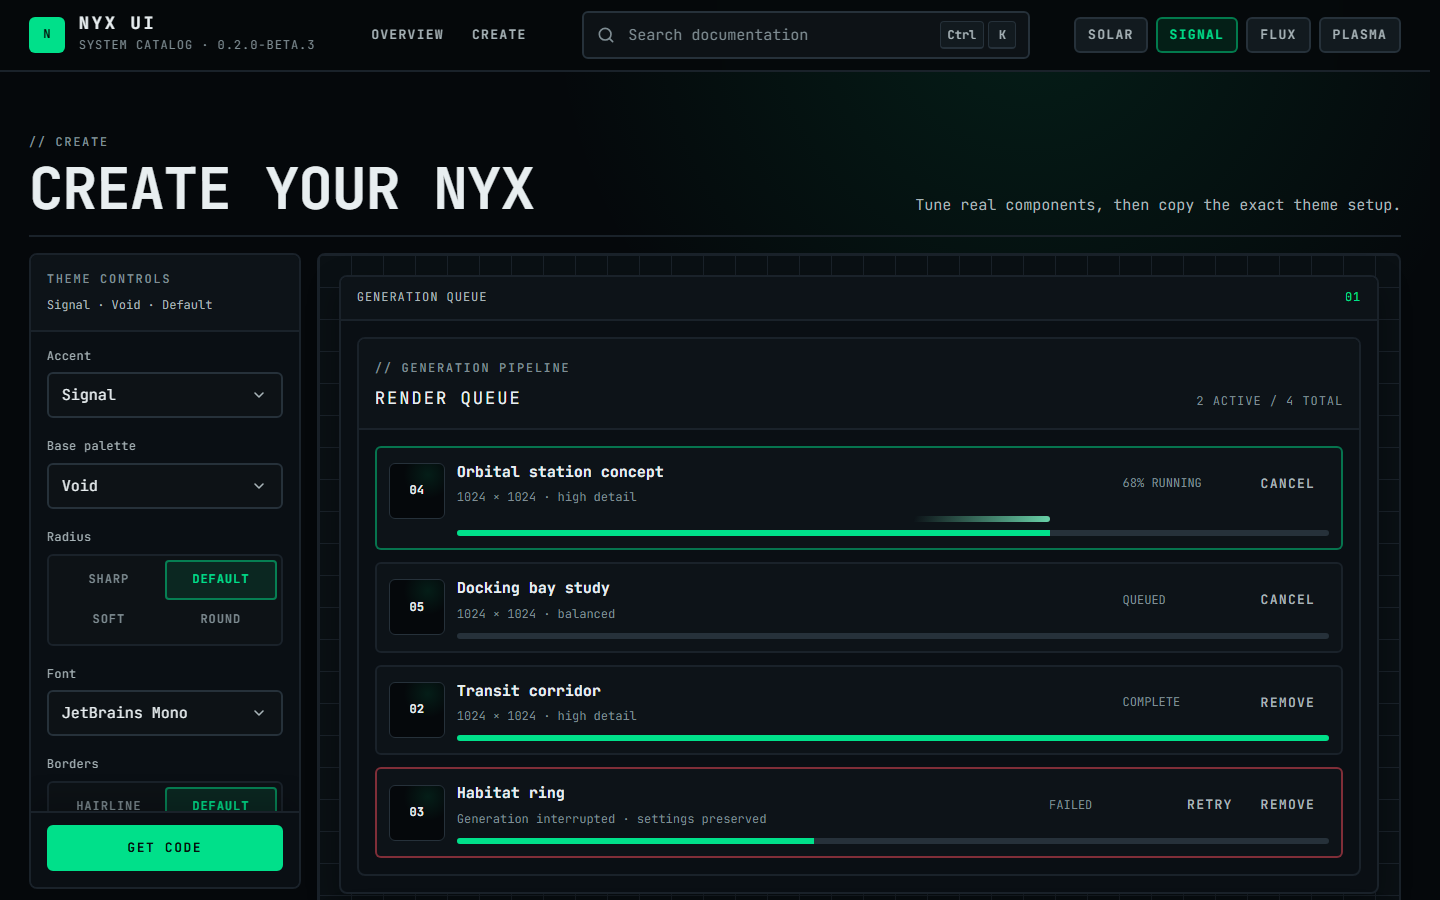
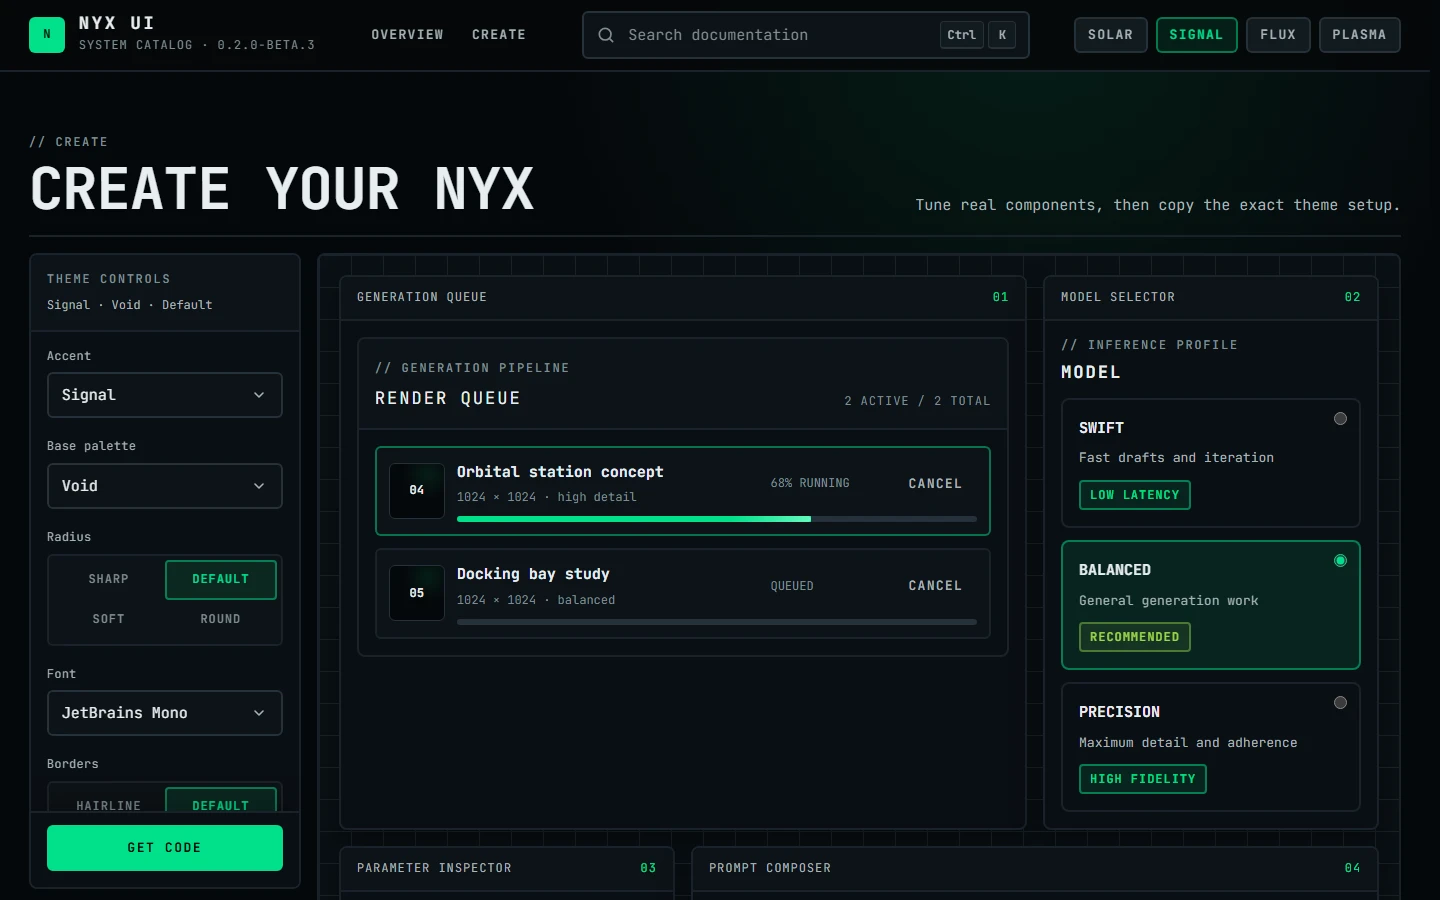
fix(docs): restore responsive create canvas

diff --git a/apps/docs/src/styles.css b/apps/docs/src/styles.css
@@ -315,10 +315,10 @@ body { overflow-x: clip; }
   .create-control-actions { display: grid; grid-template-columns: repeat(2, minmax(0, 1fr)); gap: var(--nyx-space-2); padding-block-start: var(--nyx-space-2); border-block-start: var(--nyx-border-hairline) solid var(--nyx-line); }
   .create-control-cta { position: relative; z-index: 1; padding: var(--nyx-space-3) var(--nyx-space-4) var(--nyx-space-4); border-block-start: var(--nyx-border) solid var(--nyx-line); background: var(--nyx-panel); box-shadow: 0 -0.75rem 1.5rem rgb(0 0 0 / 18%); }
   .create-control-cta .nyx-button { inline-size: 100%; }
-  .create-canvas { min-inline-size: 0; padding: clamp(0.75rem, 1.5vw, 1.25rem); border: var(--nyx-border) solid var(--nyx-line); border-radius: var(--nyx-radius-panel); background: linear-gradient(var(--nyx-line) 0.0625rem, transparent 0.0625rem), linear-gradient(90deg, var(--nyx-line) 0.0625rem, transparent 0.0625rem), var(--nyx-radial); background-size: 2rem 2rem; color: var(--nyx-ink); font-family: var(--font-nyx); transition: background-color var(--nyx-duration-normal), color var(--nyx-duration-normal), border-radius var(--nyx-duration-normal); }
-  .create-canvas-grid { display: grid; grid-template-columns: repeat(2, minmax(0, 1fr)); align-items: stretch; gap: var(--nyx-space-4); }
-  .create-card { display: grid; inline-size: 100%; min-inline-size: 0; overflow: hidden; border: var(--nyx-border) solid var(--nyx-line); border-radius: var(--nyx-radius-panel); background: var(--nyx-panel); box-shadow: var(--nyx-shadow-raised); }
-  .create-card-wide { grid-column: span 2; }
+  .create-canvas { container: create-canvas / inline-size; min-inline-size: 0; padding: clamp(0.75rem, 1.5vw, 1.25rem); border: var(--nyx-border) solid var(--nyx-line); border-radius: var(--nyx-radius-panel); background: linear-gradient(var(--nyx-line) 0.0625rem, transparent 0.0625rem), linear-gradient(90deg, var(--nyx-line) 0.0625rem, transparent 0.0625rem), var(--nyx-radial); background-size: 2rem 2rem; color: var(--nyx-ink); font-family: var(--font-nyx); transition: background-color var(--nyx-duration-normal), color var(--nyx-duration-normal), border-radius var(--nyx-duration-normal); }
+  .create-canvas-grid { display: grid; grid-template-columns: repeat(auto-fill, minmax(min(100%, 21rem), 1fr)); grid-auto-flow: dense; align-items: stretch; gap: var(--nyx-space-4); }
+  .create-card { display: grid; inline-size: 100%; min-inline-size: 0; grid-template-rows: auto 1fr; overflow: hidden; border: var(--nyx-border) solid var(--nyx-line); border-radius: var(--nyx-radius-panel); background: var(--nyx-panel); box-shadow: var(--nyx-shadow-raised); }
+  .create-card-wide { grid-column: auto; }
   .create-card > header { display: flex; min-block-size: 2.75rem; align-items: center; justify-content: space-between; gap: var(--nyx-space-3); padding: 0.625rem var(--nyx-space-4); border-block-end: var(--nyx-border) solid var(--nyx-line); background: var(--nyx-panel-raised); color: var(--nyx-muted); font-size: var(--nyx-type-meta); letter-spacing: var(--nyx-track-meta); text-transform: uppercase; }
   .create-card > header span:last-child { color: var(--nyx-accent); }
   .create-card-body { min-inline-size: 0; padding: var(--nyx-space-4); }
@@ -329,13 +329,20 @@ body { overflow-x: clip; }
   .create-card .nyx-data-table-toolbar .nyx-field { inline-size: min(100%, 30rem); }
   .create-card .nyx-table-wrap { max-inline-size: 100%; overflow-x: auto; }
   .create-card .nyx-table { min-inline-size: 34rem; }
-  .create-card .nyx-model-selector-grid { grid-template-columns: 1fr; }
+  .create-card .nyx-generation-item { grid-template-columns: 3rem minmax(0, 1fr); }
+  .create-card .nyx-generation-status { grid-column: 2; }
+  .create-card .nyx-generation-item > progress, .create-card .nyx-generation-item[data-state="running"]::after { grid-column: 1 / -1; grid-row: 3; }
+  .create-card .nyx-generation-actions { grid-column: 1 / -1; grid-row: 4; justify-content: stretch; }
+  .create-card .nyx-generation-actions .nyx-button { flex: 1; }
+  .create-card .nyx-model-selector-grid, .create-card .nyx-model-options { grid-template-columns: 1fr; }
   .create-card .nyx-chart-figure { overflow: hidden; }
   .create-card .nyx-chart { inline-size: 100%; block-size: auto; }
   .create-card .nyx-form-grid { grid-template-columns: 1fr; }
   .create-card .nyx-form-span { grid-column: auto; }
   .create-card .nyx-notification-actions { flex-wrap: wrap; }
+  .create-card .nyx-activity-media { grid-template-columns: 1fr; }
   .create-card .nyx-activity-media .nyx-attachment-thumbnail { min-block-size: 6rem; align-content: end; }
+  .create-card .nyx-toast-demo-stage { grid-template-columns: 1fr; padding: var(--nyx-space-3); }
   .create-tab-metrics { display: grid; grid-template-columns: repeat(3, minmax(0, 1fr)); margin: 0; }
   .create-tab-metrics > div { display: grid; gap: var(--nyx-space-2); padding: var(--nyx-space-3); border-inline-end: var(--nyx-border-hairline) solid var(--nyx-line); }
   .create-tab-metrics > div:last-child { border-inline-end: 0; }
@@ -358,6 +365,16 @@ body { overflow-x: clip; }
   .create-code-dialog .create-code-primary { border-color: var(--nyx-accent-line); box-shadow: var(--nyx-shadow-signal); }
   .create-code-dialog [data-create-font-block] pre { white-space: pre-wrap; overflow-wrap: anywhere; word-break: break-all; }
   .create-code-dialog [data-create-font-block][hidden] { display: none; }
+
+  @container create-canvas (min-width: 64rem) {
+    .create-card-wide { grid-column: span 2; }
+    .create-card-wide .nyx-generation-item { grid-template-columns: 3.5rem minmax(0, 1fr) 7rem auto; }
+    .create-card-wide .nyx-generation-status, .create-card-wide .nyx-generation-actions { grid-column: auto; grid-row: auto; }
+    .create-card-wide .nyx-generation-actions { justify-content: flex-end; }
+    .create-card-wide .nyx-generation-actions .nyx-button { flex: none; }
+    .create-card-wide .nyx-generation-item > progress, .create-card-wide .nyx-generation-item[data-state="running"]::after { grid-column: 2 / -1; grid-row: 2; }
+    .create-card-wide .nyx-activity-media { grid-template-columns: repeat(3, minmax(0, 1fr)); }
+  }
 }
 
 @media (max-width: 78rem) {
@@ -368,7 +385,6 @@ body { overflow-x: clip; }
   .docs-overview-split { grid-template-columns: 1fr; }
   .docs-topbar { grid-template-columns: auto auto minmax(12rem, 1fr); }
   .docs-theme-list { display: none; }
-  .create-canvas-grid { grid-template-columns: repeat(2, minmax(0, 1fr)); }
 }
 
 @media (max-width: 62rem) {
@@ -378,9 +394,14 @@ body { overflow-x: clip; }
   .docs-main-create .docs-page-header { grid-template-columns: 1fr; }
   .docs-main-create .docs-page-header .nyx-eyebrow { grid-column: auto; }
   .docs-main-create .docs-intro { white-space: normal; }
-  .create-workspace { grid-template-columns: 15rem minmax(0, 1fr); }
-  .create-canvas-grid { grid-template-columns: minmax(0, 1fr); }
-  .create-card-wide { grid-column: auto; }
+  .create-toolbar { position: sticky; z-index: calc(var(--nyx-z-sticky) - 1); inset-block-start: var(--docs-topbar-size); display: flex; padding-block: var(--nyx-space-2); background: var(--nyx-void); }
+  .create-toolbar > .nyx-button { flex: 1; }
+  .create-customize-toggle { display: inline-flex; }
+  .create-workspace { grid-template-columns: minmax(0, 1fr); }
+  .create-control-panel { position: static; display: none; max-block-size: none; overflow: visible; }
+  .create-control-panel[data-mobile-open="true"] { display: grid; }
+  .create-controls-form { overflow: visible; }
+  .create-control-cta { position: sticky; inset-block-end: 0; }
 }
 
 @media (max-width: 48rem) {
@@ -420,20 +441,12 @@ body { overflow-x: clip; }
   .docs-ai-agents article:nth-child(n + 2) { border-block-start: var(--nyx-border) solid var(--nyx-line); }
   .docs-main-create { padding: 0.75rem; }
   .docs-main-create .docs-page-header { margin-block-end: var(--nyx-space-4); padding-block: var(--nyx-space-2) var(--nyx-space-4); }
-  .create-toolbar { position: sticky; z-index: calc(var(--nyx-z-sticky) - 1); inset-block-start: 0; display: flex; padding-block: var(--nyx-space-2); background: var(--nyx-void); }
-  .create-toolbar > .nyx-button { flex: 1; }
-  .create-customize-toggle { display: inline-flex; }
-  .create-workspace { grid-template-columns: minmax(0, 1fr); }
-  .create-control-panel { position: static; display: none; max-block-size: none; overflow: visible; }
-  .create-control-panel[data-mobile-open="true"] { display: grid; }
-  .create-controls-form { overflow: visible; }
-  .create-control-cta { position: sticky; inset-block-end: 0; }
+  .create-toolbar { inset-block-start: 0; }
   .create-canvas { padding: var(--nyx-space-2); }
-  .create-canvas-grid { grid-template-columns: minmax(0, 1fr); gap: var(--nyx-space-3); }
+  .create-canvas-grid { gap: var(--nyx-space-3); }
   .create-card-body { padding: var(--nyx-space-3); }
   .create-card .nyx-generation-item { grid-template-columns: 2.5rem minmax(0, 1fr); }
-  .create-card .nyx-generation-item > .nyx-generation-actions { grid-column: 1 / -1; grid-row: auto; }
-  .create-card .nyx-generation-item > progress, .create-card .nyx-generation-item[data-state="running"]::after { grid-column: 1 / -1; }
+  .create-card .nyx-activity-media { grid-template-columns: 1fr; }
   .create-code-dialog { inline-size: calc(100vw - 1rem); max-block-size: calc(100vh - 1rem); }
   .create-code-dialog .nyx-dialog-body { padding: var(--nyx-space-3); }
 }

diff --git a/tests/browser/create.spec.ts b/tests/browser/create.spec.ts
@@ -100,12 +100,15 @@ test("default code needs no CSS overrides and puts the accent snippet after inst
   expect(accentBox!.y).toBeGreaterThan(installBox!.y + installBox!.height - 1);
 });
 
-test("desktop canvas keeps wide cards readable and paired cards dense", async ({ page }) => {
+test("canvas adds responsive columns without clipped ellipses", async ({ page }) => {
   const wideTitles = ["Generation queue", "Prompt composer", "Batch progress", "Activity feed", "Advanced data table"];
-  const pairs = [["Model selector", "Parameter inspector"], ["Command palette", "Notification centre"], ["Tabs", "Calendar"], ["Toast stack", "Project form"]];
+  const viewports = [
+    { width: 1440, height: 900, minimumColumns: 3, minimumVisibleCards: 4 },
+    { width: 1920, height: 1080, minimumColumns: 4, minimumVisibleCards: 6 },
+  ];
 
-  for (const width of [1440, 1920]) {
-    await page.setViewportSize({ width, height: 1080 });
+  for (const viewport of viewports) {
+    await page.setViewportSize({ width: viewport.width, height: viewport.height });
     await page.goto("/create");
     const grid = page.locator(".create-canvas-grid");
     const gridBox = await grid.boundingBox();
@@ -116,28 +119,33 @@ test("desktop canvas keeps wide cards readable and paired cards dense", async ({
     expect(canvasBox).not.toBeNull();
     expect(headerBox!.height).toBeLessThanOrEqual(165);
     expect(canvasBox!.y - (headerBox!.y + headerBox!.height)).toBeLessThanOrEqual(20);
+    const columns = await grid.evaluate((element) => getComputedStyle(element).gridTemplateColumns.split(" ").filter(Boolean).length);
+    expect(columns).toBeGreaterThanOrEqual(viewport.minimumColumns);
+
+    const visibleCards = await page.locator("[data-create-card]").evaluateAll((cards) => cards.filter((card) => {
+      const bounds = card.getBoundingClientRect();
+      return bounds.top < window.innerHeight && bounds.bottom > 0;
+    }).length);
+    expect(visibleCards).toBeGreaterThanOrEqual(viewport.minimumVisibleCards);
 
     for (const title of wideTitles) {
       const card = page.locator("[data-create-card]", { has: page.locator("header", { hasText: title }) });
       const box = await card.boundingBox();
       expect(box).not.toBeNull();
-      expect(box!.width).toBeGreaterThan(gridBox!.width * 0.95);
+      expect(box!.width).toBeGreaterThan(gridBox!.width / columns);
+      expect(box!.width).toBeLessThan(gridBox!.width * 0.8);
     }
 
-    for (const [left, right] of pairs) {
-      const leftBox = await page.locator("[data-create-card]", { has: page.locator("header", { hasText: left }) }).boundingBox();
-      const rightBox = await page.locator("[data-create-card]", { has: page.locator("header", { hasText: right }) }).boundingBox();
-      expect(leftBox).not.toBeNull();
-      expect(rightBox).not.toBeNull();
-      expect(Math.abs(leftBox!.y - rightBox!.y)).toBeLessThanOrEqual(1);
-      expect(Math.abs(leftBox!.height - rightBox!.height)).toBeLessThanOrEqual(1);
-    }
-
-    const ellipsized = await page.locator("[data-create-card] *").evaluateAll((elements) => elements
-      .filter((element) => getComputedStyle(element).textOverflow === "ellipsis")
+    const clippedEllipses = await page.locator("[data-create-canvas] *").evaluateAll((elements) => elements
+      .filter((element) => {
+        const htmlElement = element as HTMLElement;
+        const style = getComputedStyle(htmlElement);
+        return style.textOverflow === "ellipsis"
+          && (htmlElement.scrollWidth > htmlElement.clientWidth || htmlElement.scrollHeight > htmlElement.clientHeight);
+      })
       .map((element) => element.textContent?.trim())
       .filter(Boolean));
-    expect(ellipsized).toEqual([]);
+    expect(clippedEllipses).toEqual([]);
     await expect(page.getByText("release-notes.pdf", { exact: true })).toBeVisible();
     await expect(page.getByText("audit-sample.csv", { exact: true })).toBeVisible();
     await expect(page.getByText("Lobby concept", { exact: true })).toBeVisible();
@@ -159,6 +167,22 @@ test("code dialog wraps the font link and scrolls its body on a short viewport",
   await expect(dialog.locator(".nyx-dialog-footer")).toBeVisible();
   expect(await body.evaluate((element) => element.scrollHeight > element.clientHeight)).toBe(true);
   expect(await fontCode.evaluate((element) => element.scrollWidth - element.clientWidth)).toBeLessThanOrEqual(1);
+});
+
+test("canvas uses two tablet columns and one phone column", async ({ page }) => {
+  await page.setViewportSize({ width: 900, height: 900 });
+  await page.goto("/create");
+  const tabletColumns = await page.locator(".create-canvas-grid").evaluate((element) => getComputedStyle(element).gridTemplateColumns.split(" ").filter(Boolean).length);
+  expect(tabletColumns).toBe(2);
+  const tabletWide = await page.locator(".create-card-wide").first().boundingBox();
+  const tabletSingle = await page.locator("[data-create-card]:not(.create-card-wide)").first().boundingBox();
+  expect(tabletWide).not.toBeNull();
+  expect(tabletSingle).not.toBeNull();
+  expect(Math.abs(tabletWide!.width - tabletSingle!.width)).toBeLessThanOrEqual(1);
+
+  await page.setViewportSize({ width: 390, height: 844 });
+  const phoneColumns = await page.locator(".create-canvas-grid").evaluate((element) => getComputedStyle(element).gridTemplateColumns.split(" ").filter(Boolean).length);
+  expect(phoneColumns).toBe(1);
 });
 
 test("create has no console errors and stays bounded with both mobile panel states", async ({ page }) => {

diff --git a/apps/docs/src/create/page.ts b/apps/docs/src/create/page.ts
@@ -89,6 +89,16 @@ function promptComposerPreview(): string {
   return composer?.outerHTML ?? "";
 }
 
+function generationQueuePreview(): string {
+  const template = document.createElement("template");
+  template.innerHTML = generationQueueMarkup;
+  const queue = template.content.querySelector<HTMLElement>("[data-nyx-generation-queue]");
+  Array.from(queue?.querySelectorAll("[data-nyx-generation-item]") ?? []).slice(2).forEach((item) => item.remove());
+  const count = queue?.querySelector<HTMLOutputElement>("[data-nyx-generation-count]");
+  if (count) count.value = "1 active / 2 total";
+  return queue?.outerHTML ?? "";
+}
+
 function tabsPreview(): string {
   const template = document.createElement("template");
   template.innerHTML = selectedMarkup(navigationMarkup, "[data-nyx-tabs]");
@@ -151,20 +161,20 @@ const codeDialog = `<dialog aria-labelledby="create-code-title" class="nyx-dialo
 </dialog>`;
 
 const cards = [
-  card("Generation queue", generationQueueMarkup, "01", "create-card-wide"),
-  card("Prompt composer", promptComposerPreview(), "02", "create-card-wide"),
-  card("Model selector", modelSelectorMarkup, "03"),
-  card("Parameter inspector", parameterInspectorMarkup, "04"),
-  card("Batch progress", batchProgressMarkup, "05", "create-card-wide"),
-  card("Activity feed", activityFeedMarkup, "06", "create-card-wide"),
-  card("Advanced data table", dataTableMarkup, "07", "create-card-wide"),
-  card("Command palette", inlineCommandPalette(), "08"),
-  card("Notification centre", notificationCenterMarkup, "09"),
-  card("Tabs", tabsPreview(), "10"),
-  card("Calendar", selectedMarkup(calendarMarkup, "[data-nyx-calendar]"), "11"),
-  card("Throughput", selectedMarkup(visualizationMarkup, "[data-nyx-example='chart-populated']"), "12", "create-card-wide"),
+  card("Generation queue", generationQueuePreview(), "01", "create-card-wide"),
+  card("Model selector", modelSelectorMarkup, "02"),
+  card("Parameter inspector", parameterInspectorMarkup, "03"),
+  card("Prompt composer", promptComposerPreview(), "04", "create-card-wide"),
+  card("Calendar", selectedMarkup(calendarMarkup, "[data-nyx-calendar]"), "05"),
+  card("Command palette", inlineCommandPalette(), "06"),
+  card("Notification centre", notificationCenterMarkup, "07"),
+  card("Batch progress", batchProgressMarkup, "08", "create-card-wide"),
+  card("Activity feed", activityFeedMarkup, "09", "create-card-wide"),
+  card("Project form", selectedMarkup(formsMarkup, "[data-nyx-example='text-fields']"), "10"),
+  card("Throughput", selectedMarkup(visualizationMarkup, "[data-nyx-example='chart-populated']"), "11"),
+  card("Advanced data table", dataTableMarkup, "12", "create-card-wide"),
   card("Toast stack", selectedMarkup(feedbackMarkup, ".nyx-toast-showcase"), "13"),
-  card("Project form", selectedMarkup(formsMarkup, "[data-nyx-example='text-fields']"), "14"),
+  card("Tabs", tabsPreview(), "14"),
 ].join("");
 
 export const createPage: DocPage = page({
